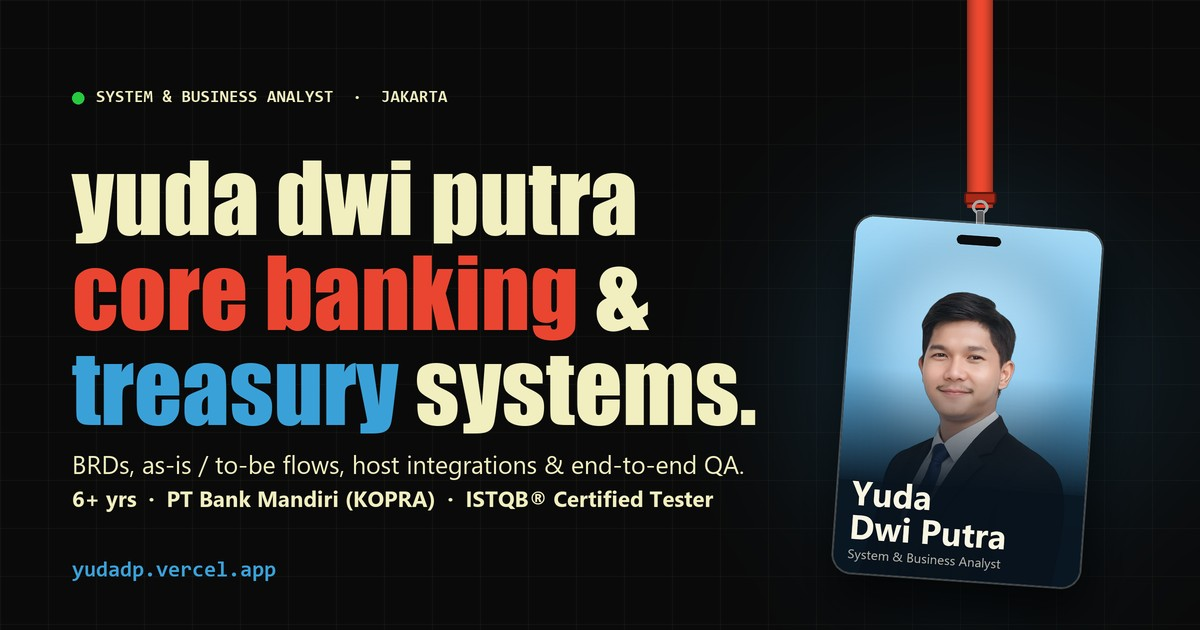
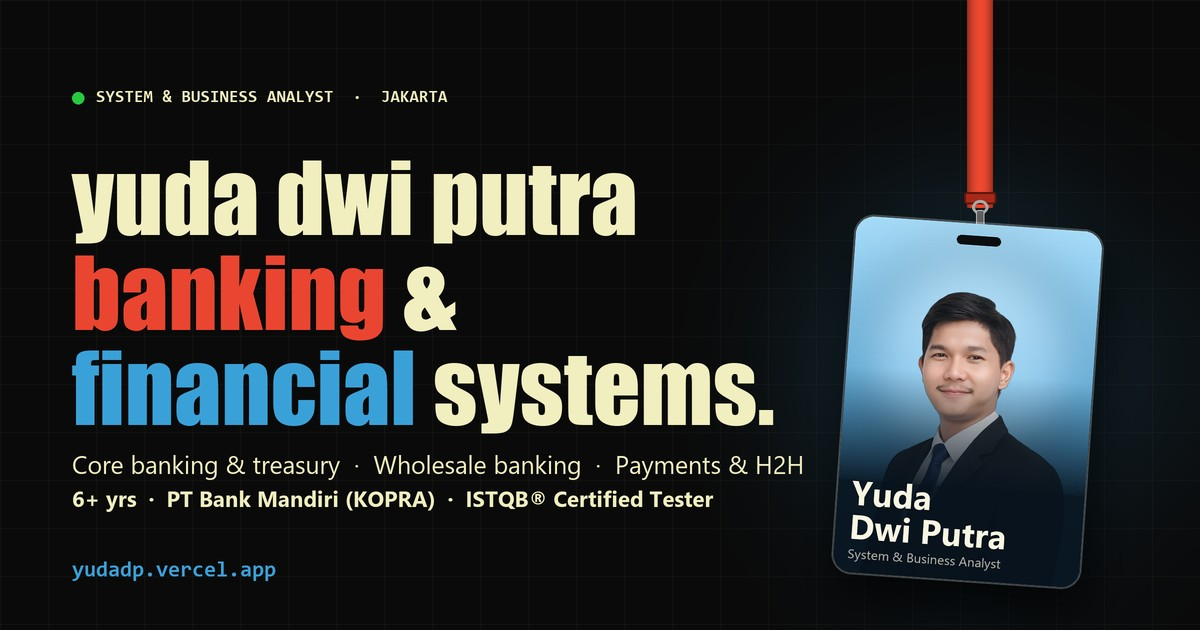
feat: position as System & Business Analyst for banking & financial systems
- Title, meta description/keywords, OG/Twitter alt and JSON-LD now read
  "Banking & Financial Systems" with three specialisms: core banking &
  treasury, wholesale digital banking, payments & H2H/API integration
- Home bio, About intro, About/Contact calls to action follow the same
  framing and mention the ISTQB-certified end-to-end validation angle
- Share image headline updated to match

Changed region(s): [[0.0617, 0.3921, 0.6475, 0.6937], [0.0617, 0.7238, 0.6783, 0.754]]

diff --git a/index.html b/index.html
@@ -7,18 +7,18 @@
     <meta name="theme-color" content="#0a0a0a" />
 
     <!-- Primary Meta Tags -->
-    <title>Yuda Dwi Putra — System &amp; Business Analyst | Core Banking &amp; Treasury</title>
+    <title>Yuda Dwi Putra — System &amp; Business Analyst | Banking &amp; Financial Systems</title>
     <meta
       name="title"
-      content="Yuda Dwi Putra — System &amp; Business Analyst | Core Banking &amp; Treasury"
+      content="Yuda Dwi Putra — System &amp; Business Analyst | Banking &amp; Financial Systems"
     />
     <meta
       name="description"
-      content="Portofolio resmi Yuda Dwi Putra, System &amp; Business Analyst dan ISTQB® Certified QA Leader dengan 6+ tahun pengalaman di Core Banking (BDS/AS400), Treasury &amp; e-FX, BI-FAST, dan modernisasi sistem enterprise (PT Bank Mandiri KOPRA, PT Adi Data Informatika, TNI AL, PT SMI)."
+      content="Portofolio Yuda Dwi Putra, System &amp; Business Analyst untuk sistem perbankan &amp; keuangan dan ISTQB® Certified QA Leader: core banking &amp; treasury (BDS/AS400, e-FX), wholesale digital banking (KOPRA: cash management, trade finance, supply chain financing), serta payments &amp; integrasi BI-FAST / H2H API. 6+ tahun pengalaman (PT Bank Mandiri, PT Adi Data Informatika, TNI AL, PT SMI)."
     />
     <meta
       name="keywords"
-      content="Yuda Dwi Putra, System Analyst, Business Analyst, Core Banking, Treasury, AS400, BDS, PT Bank Mandiri, KOPRA Super Apps, PT Adi Data Informatika, TNI AL TABPLIN, PT SMI, ISTQB Certified Tester, QA Leader, BI-FAST, e-FX, Payment Integration, BRD, Sequence Diagram"
+      content="Yuda Dwi Putra, System Analyst, Business Analyst, Banking Systems, Financial Systems, Core Banking, Treasury, Wholesale Banking, Cash Management, Trade Finance, Supply Chain Financing, Payments, H2H API, AS400, BDS, PT Bank Mandiri, KOPRA Super Apps, PT Adi Data Informatika, TNI AL TABPLIN, PT SMI, ISTQB Certified Tester, QA Leader, BI-FAST, e-FX, Payment Integration, BRD, Sequence Diagram"
     />
     <meta name="author" content="Yuda Dwi Putra" />
     <meta name="robots" content="index, follow" />
@@ -29,7 +29,7 @@
     <meta property="og:url" content="https://yudadp.vercel.app/" />
     <meta
       property="og:title"
-      content="Yuda Dwi Putra — System &amp; Business Analyst | Core Banking &amp; Treasury"
+      content="Yuda Dwi Putra — System &amp; Business Analyst | Banking &amp; Financial Systems"
     />
     <meta
       property="og:description"
@@ -40,7 +40,7 @@
     <meta property="og:image:type" content="image/jpeg" />
     <meta property="og:image:width" content="1200" />
     <meta property="og:image:height" content="630" />
-    <meta property="og:image:alt" content="Yuda Dwi Putra — System &amp; Business Analyst for core banking &amp; treasury systems, shown with a blue ID badge on a red lanyard" />
+    <meta property="og:image:alt" content="Yuda Dwi Putra — System &amp; Business Analyst for banking &amp; financial systems, shown with a blue ID badge on a red lanyard" />
     <meta property="og:site_name" content="Yuda Dwi Putra Portfolio" />
     <meta property="og:locale" content="id_ID" />
     <meta property="og:locale:alternate" content="en_US" />
@@ -50,14 +50,14 @@
     <meta name="twitter:url" content="https://yudadp.vercel.app/" />
     <meta
       name="twitter:title"
-      content="Yuda Dwi Putra — System &amp; Business Analyst | Core Banking &amp; Treasury"
+      content="Yuda Dwi Putra — System &amp; Business Analyst | Banking &amp; Financial Systems"
     />
     <meta
       name="twitter:description"
       content="6+ tahun di perbankan &amp; layanan finansial (5 tahun di PT Bank Mandiri KOPRA, TNI AL TABPLIN, PT SMI). ISTQB® Certified Tester."
     />
     <meta name="twitter:image" content="https://yudadp.vercel.app/og-image.jpg" />
-    <meta name="twitter:image:alt" content="Yuda Dwi Putra — System &amp; Business Analyst | Core Banking &amp; Treasury" />
+    <meta name="twitter:image:alt" content="Yuda Dwi Putra — System &amp; Business Analyst | Banking &amp; Financial Systems" />
 
     <link rel="icon" type="image/svg+xml" href="/favicon.svg" />
     <link rel="apple-touch-icon" href="/favicon.svg" />
@@ -71,7 +71,7 @@
         "url": "https://yudadp.vercel.app",
         "image": "https://yudadp.vercel.app/yuda-photo-id.jpg",
         "jobTitle": "System & Business Analyst",
-        "description": "System & Business Analyst and ISTQB® Certified QA Leader with 6+ years in Core Banking and Treasury software delivery.",
+        "description": "System & Business Analyst for banking & financial systems (core banking & treasury, wholesale digital banking, payments & H2H/API integration) and ISTQB® Certified QA Leader with 6+ years in financial software delivery.",
         "email": "mailto:yudadwiputra@gmail.com",
         "telephone": "+6289525214959",
         "address": {
@@ -86,6 +86,7 @@
         "knowsAbout": [
           "Core Banking (BDS, Host/AS400)",
           "Treasury & Foreign Exchange (e-FX)",
+          "Wholesale Digital Banking (Cash Management, Trade Finance, Supply Chain Financing)",
           "Account & Ledger Posting",
           "BI-FAST & Host-to-Host (H2H) Payments",
           "Business Requirements Document (BRD)",

diff --git a/src/App.jsx b/src/App.jsx
@@ -28,7 +28,7 @@ const PAGE_LEAVE_MS = 220;
 const ALL_PROJECTS = [...PROJECTS_PERSONAL, ...PROJECTS_AGENCY];
 
 const PAGE_TITLES = {
-  home: "Yuda Dwi Putra — System & Business Analyst | Core Banking & Treasury",
+  home: "Yuda Dwi Putra — System & Business Analyst | Banking & Financial Systems",
   work: "Work — Yuda Dwi Putra",
   about: "About — Yuda Dwi Putra",
   studio: "Yuma Studio — Yuda Dwi Putra",
@@ -381,9 +381,10 @@ export default function App() {
                     <>
                       I&apos;m <strong className="font-bold text-[#f1eec0]">Yuda Dwi Putra</strong>, a{" "}
                       <strong className="font-bold text-[#3aa1d8]">System &amp; Business Analyst</strong> for{" "}
-                      <em className="font-accent-serif italic font-normal text-[1.1em] text-[#f1eec0]">core banking and treasury</em>.
-                      I turn complex banking processes into clear BRDs, as-is / to-be flows and specs, then validate them
-                      end to end, from digital channel to host. <span className="whitespace-nowrap">6+ years</span> in financial software, including{" "}
+                      <em className="font-accent-serif italic font-normal text-[1.1em] text-[#f1eec0]">banking &amp; financial systems</em>,
+                      from core banking and treasury to wholesale digital banking and payments. I turn complex banking
+                      processes into clear BRDs, as-is / to-be flows and specs, then validate them end to end as an
+                      ISTQB-certified tester, from digital channel to host. <span className="whitespace-nowrap">6+ years</span> in financial software, including{" "}
                       <strong className="font-bold text-[#ea4530]">5 years at <span className="whitespace-nowrap">PT Bank Mandiri (KOPRA)</span></strong>, now modernising
                       systems for <strong className="font-bold text-[#3aa1d8] whitespace-nowrap">TNI AL</strong> and{" "}
                       <strong className="font-bold text-[#ea4530] whitespace-nowrap">PT SMI</strong> at <span className="whitespace-nowrap">PT Adi Data Informatika</span>.{" "}
@@ -396,10 +397,11 @@ export default function App() {
                   ) : (
                     <>
                       Saya <strong className="font-bold text-[#f1eec0]">Yuda Dwi Putra</strong>,{" "}
-                      <strong className="font-bold text-[#3aa1d8]">System &amp; Business Analyst</strong> di bidang{" "}
-                      <em className="font-accent-serif italic font-normal text-[1.1em] text-[#f1eec0]">core banking dan treasury</em>.
-                      Saya mengubah proses perbankan yang kompleks menjadi BRD, alur as-is / to-be, dan spesifikasi yang
-                      jelas, lalu memvalidasinya end-to-end, dari kanal digital sampai host. <span className="whitespace-nowrap">6+ tahun</span> di software finansial,
+                      <strong className="font-bold text-[#3aa1d8]">System &amp; Business Analyst</strong> untuk{" "}
+                      <em className="font-accent-serif italic font-normal text-[1.1em] text-[#f1eec0]">sistem perbankan &amp; keuangan</em>,
+                      dari core banking dan treasury hingga wholesale digital banking dan payments. Saya mengubah proses
+                      perbankan yang kompleks menjadi BRD, alur as-is / to-be, dan spesifikasi yang jelas, lalu
+                      memvalidasinya end-to-end sebagai ISTQB-certified tester, dari kanal digital sampai host. <span className="whitespace-nowrap">6+ tahun</span> di software finansial,
                       termasuk <strong className="font-bold text-[#ea4530]">5 tahun di <span className="whitespace-nowrap">PT Bank Mandiri (KOPRA)</span></strong>, kini
                       memodernisasi sistem untuk <strong className="font-bold text-[#3aa1d8] whitespace-nowrap">TNI AL</strong> dan{" "}
                       <strong className="font-bold text-[#ea4530] whitespace-nowrap">PT SMI</strong> bersama <span className="whitespace-nowrap">PT Adi Data Informatika</span>.{" "}

diff --git a/src/components/AboutView.jsx b/src/components/AboutView.jsx
@@ -241,8 +241,8 @@ export default function AboutView({ lang, setActivePage }) {
           </div>
           <p className="mt-6 text-[15px] sm:text-base text-[#f1eec0]/70 leading-relaxed max-w-3xl">
             {lang === "en"
-              ? "Including 5 years at PT Bank Mandiri on the KOPRA wholesale banking platform. Strong hands-on exposure to core banking and treasury domains: branch and host transactions (BDS, Host/AS400), account & ledger posting, multi-currency & Non-IDR accounts, FX (e-FX), remittance, custody, escrow, cash management, balance forecasting, trade finance, and BI-FAST payments."
-              : "Termasuk 5 tahun di PT Bank Mandiri pada platform wholesale banking KOPRA. Berpengalaman mendalam pada domain core banking & treasury: transaksi cabang dan host (BDS, Host/AS400), pembukuan akun & buku besar, rekening multi-currency & Non-IDR, FX (e-FX), remitansi, kustodi, escrow, cash management, balance forecasting, trade finance, dan pembayaran BI-FAST."}
+              ? "Including 5 years at PT Bank Mandiri on the KOPRA wholesale banking platform. Hands-on across three areas: core banking & treasury (branch and host transactions on BDS / Host AS400, account & ledger posting, multi-currency & Non-IDR accounts, e-FX, balance forecasting), wholesale digital banking (cash management, trade finance & bank guarantees, supply chain financing, custody, escrow) and payments & integration (BI-FAST, H2H / API, remittance)."
+              : "Termasuk 5 tahun di PT Bank Mandiri pada platform wholesale banking KOPRA. Berpengalaman langsung di tiga area: core banking & treasury (transaksi cabang dan host di BDS / Host AS400, pembukuan akun & buku besar, rekening multi-currency & Non-IDR, e-FX, balance forecasting), wholesale digital banking (cash management, trade finance & bank garansi, supply chain financing, kustodi, escrow), serta payments & integrasi (BI-FAST, H2H / API, remitansi)."}
           </p>
         </div>
 
@@ -507,8 +507,8 @@ export default function AboutView({ lang, setActivePage }) {
             </h3>
             <p className="text-sm sm:text-base text-[#f1eec0]/70 leading-relaxed">
               {lang === "en"
-                ? "Need a System & Business Analyst or QA Leader for Core Banking, Treasury, or Enterprise Modernization? Let's connect."
-                : "Butuh System & Business Analyst atau QA Leader untuk Core Banking, Treasury, atau Modernisasi Sistem? Mari berdiskusi."}
+                ? "Need a System & Business Analyst or QA Leader for core banking & treasury, wholesale digital banking, payments & H2H integration, or enterprise modernisation? Let's connect."
+                : "Butuh System & Business Analyst atau QA Leader untuk core banking & treasury, wholesale digital banking, payments & integrasi H2H, atau modernisasi sistem? Mari berdiskusi."}
             </p>
             <p className="text-xs font-mono text-[#3aa1d8] break-words">
               yudadwiputra@gmail.com · +62 895 2521 4959

diff --git a/src/components/ContactView.jsx b/src/components/ContactView.jsx
@@ -39,8 +39,8 @@ export default function ContactView({ lang }) {
 
         <p className="text-base sm:text-lg text-[#f1eec0]/75 max-w-xl mx-auto">
           {lang === "en"
-            ? "Need a Business Analyst, System Analyst, or QA Leader for Core Banking, Treasury or Enterprise Modernization? Reach out directly via email or WhatsApp."
-            : "Butuh Business Analyst, System Analyst, atau QA Leader untuk Core Banking, Treasury atau Modernisasi Enterprise? Hubungi langsung lewat email atau WhatsApp."}
+            ? "Need a Business Analyst, System Analyst, or QA Leader for core banking & treasury, wholesale digital banking, payments & H2H integration, or enterprise modernisation? Reach out directly via email or WhatsApp."
+            : "Butuh Business Analyst, System Analyst, atau QA Leader untuk core banking & treasury, wholesale digital banking, payments & integrasi H2H, atau modernisasi enterprise? Hubungi langsung lewat email atau WhatsApp."}
         </p>
 
         {/* Big Email Pill + WhatsApp + Copy Button */}
